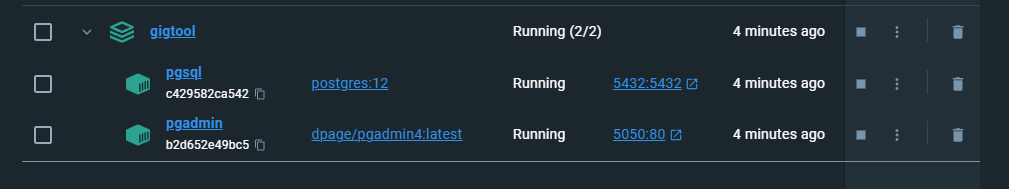
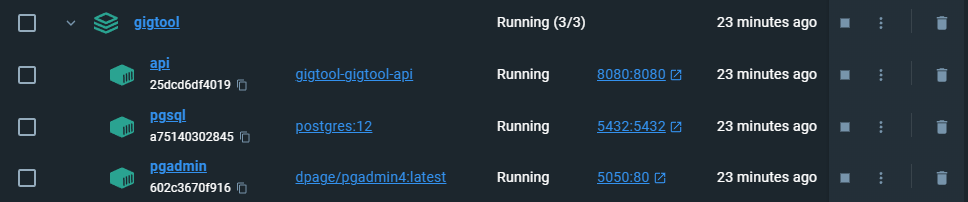
docu adjust to new docker compose

diff --git a/Dokumentation/documentation.md b/Dokumentation/documentation.md
@@ -218,7 +218,7 @@ Folgende Kollisionsprüfungen werden von unserer Application abgedeckt:
 > - Spring Boot
 > - Maven POM
 > - JPA repos
-> - dockerize/manage PostgreSQL
+> - dockerize Application, PostgreSQL
 > - Postman Collection + Workspaces
 > - Location, Address und TypeOfLocation sind sehr komplex verschachtelt => hier hatten wir große Ambitionen sind dann aber an einen zu hohen Grad an Komplexität gelangt
 > - bei Happening ist uns der Schritt der Vereinfachung gelungen => hier konnten wir ein einheitliches Zeitformat (Zeit + Datum) für alle Happenings einführen und unsere Datenstrukturen optimieren
